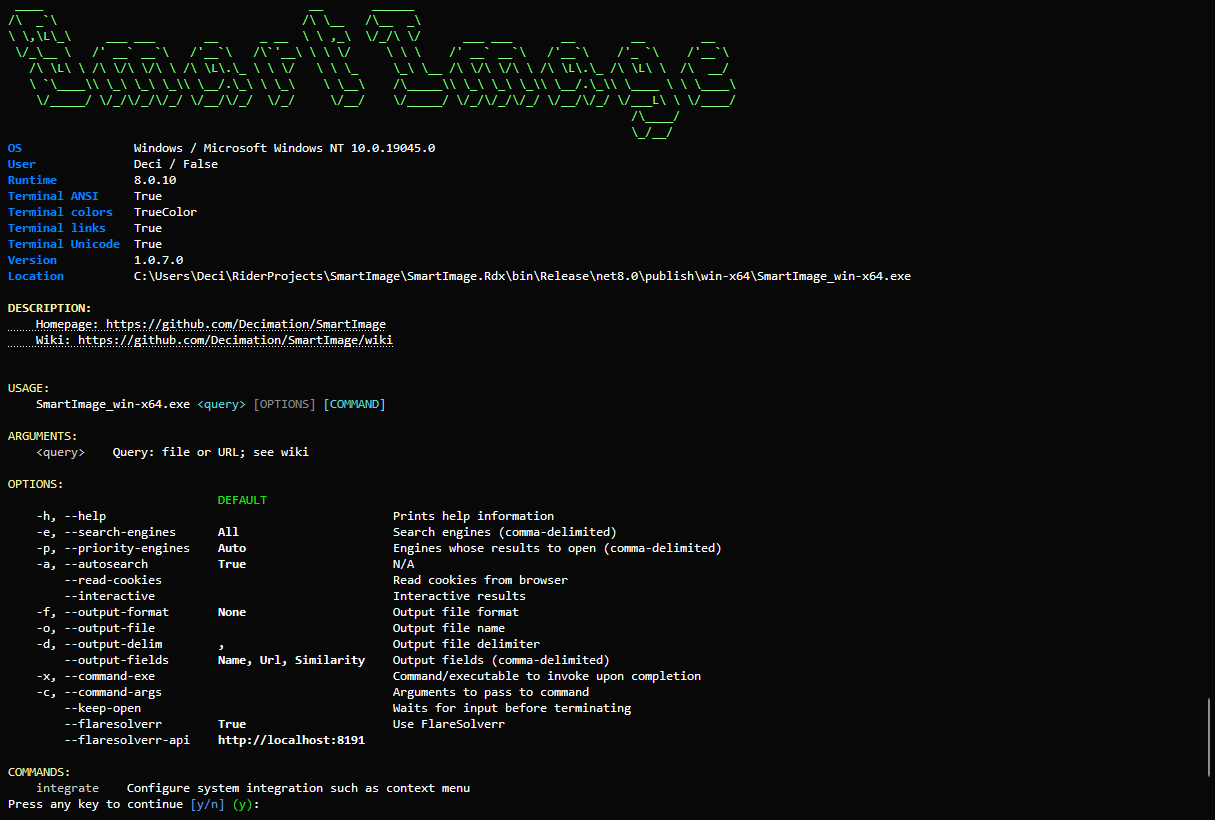
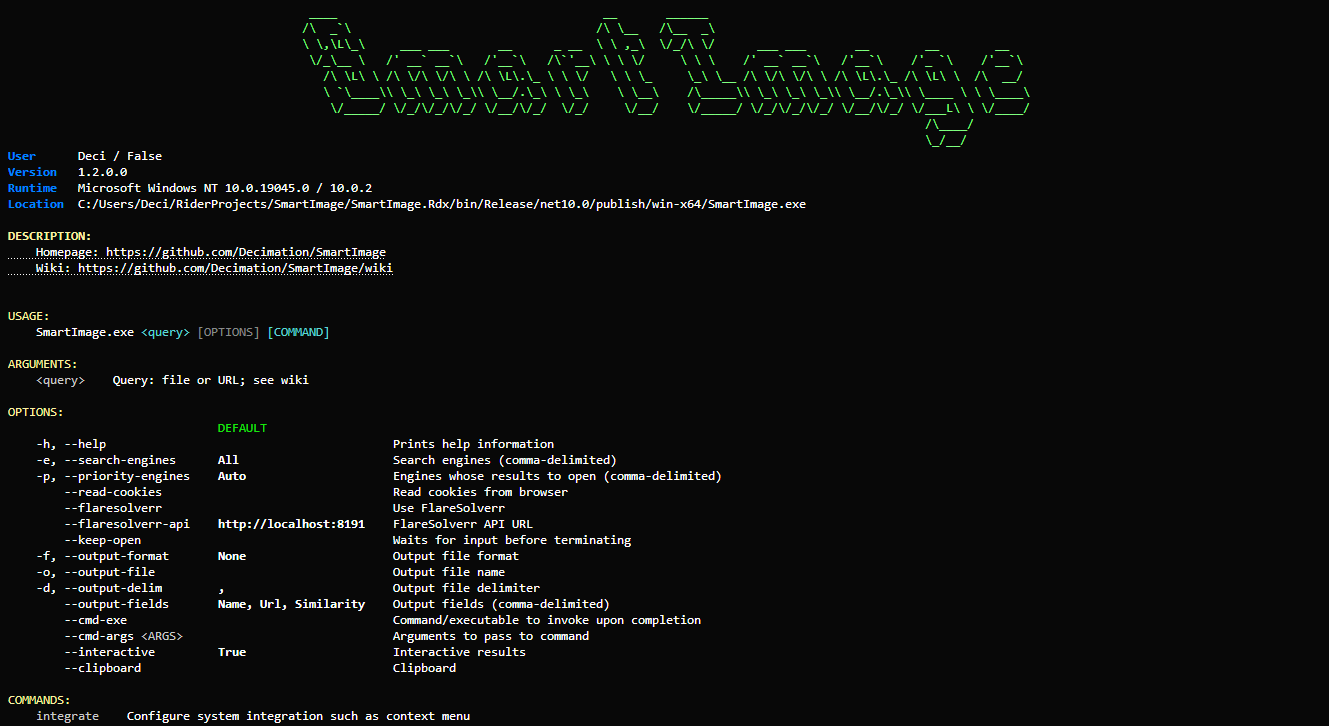
Update help example image

Changed region(s): [[0.0, 0.4242, 0.5786, 1.0], [0.0, 0.1515, 0.7613, 0.4242], [0.0, 0.0, 0.7613, 0.2121]]

diff --git a/SmartImage.Rdx/Program.cs b/SmartImage.Rdx/Program.cs
@@ -49,6 +49,10 @@ public static class Program
 		{
 			Trace.WriteLine($"{sender} -> {eventArgs}");
 		};*/
+		
+		if (BaseOSIntegration.IsWindows) {
+			Console.Title = R1.Name;
+		}
 
 		Encoding.RegisterProvider(CodePagesEncodingProvider.Instance);
 
